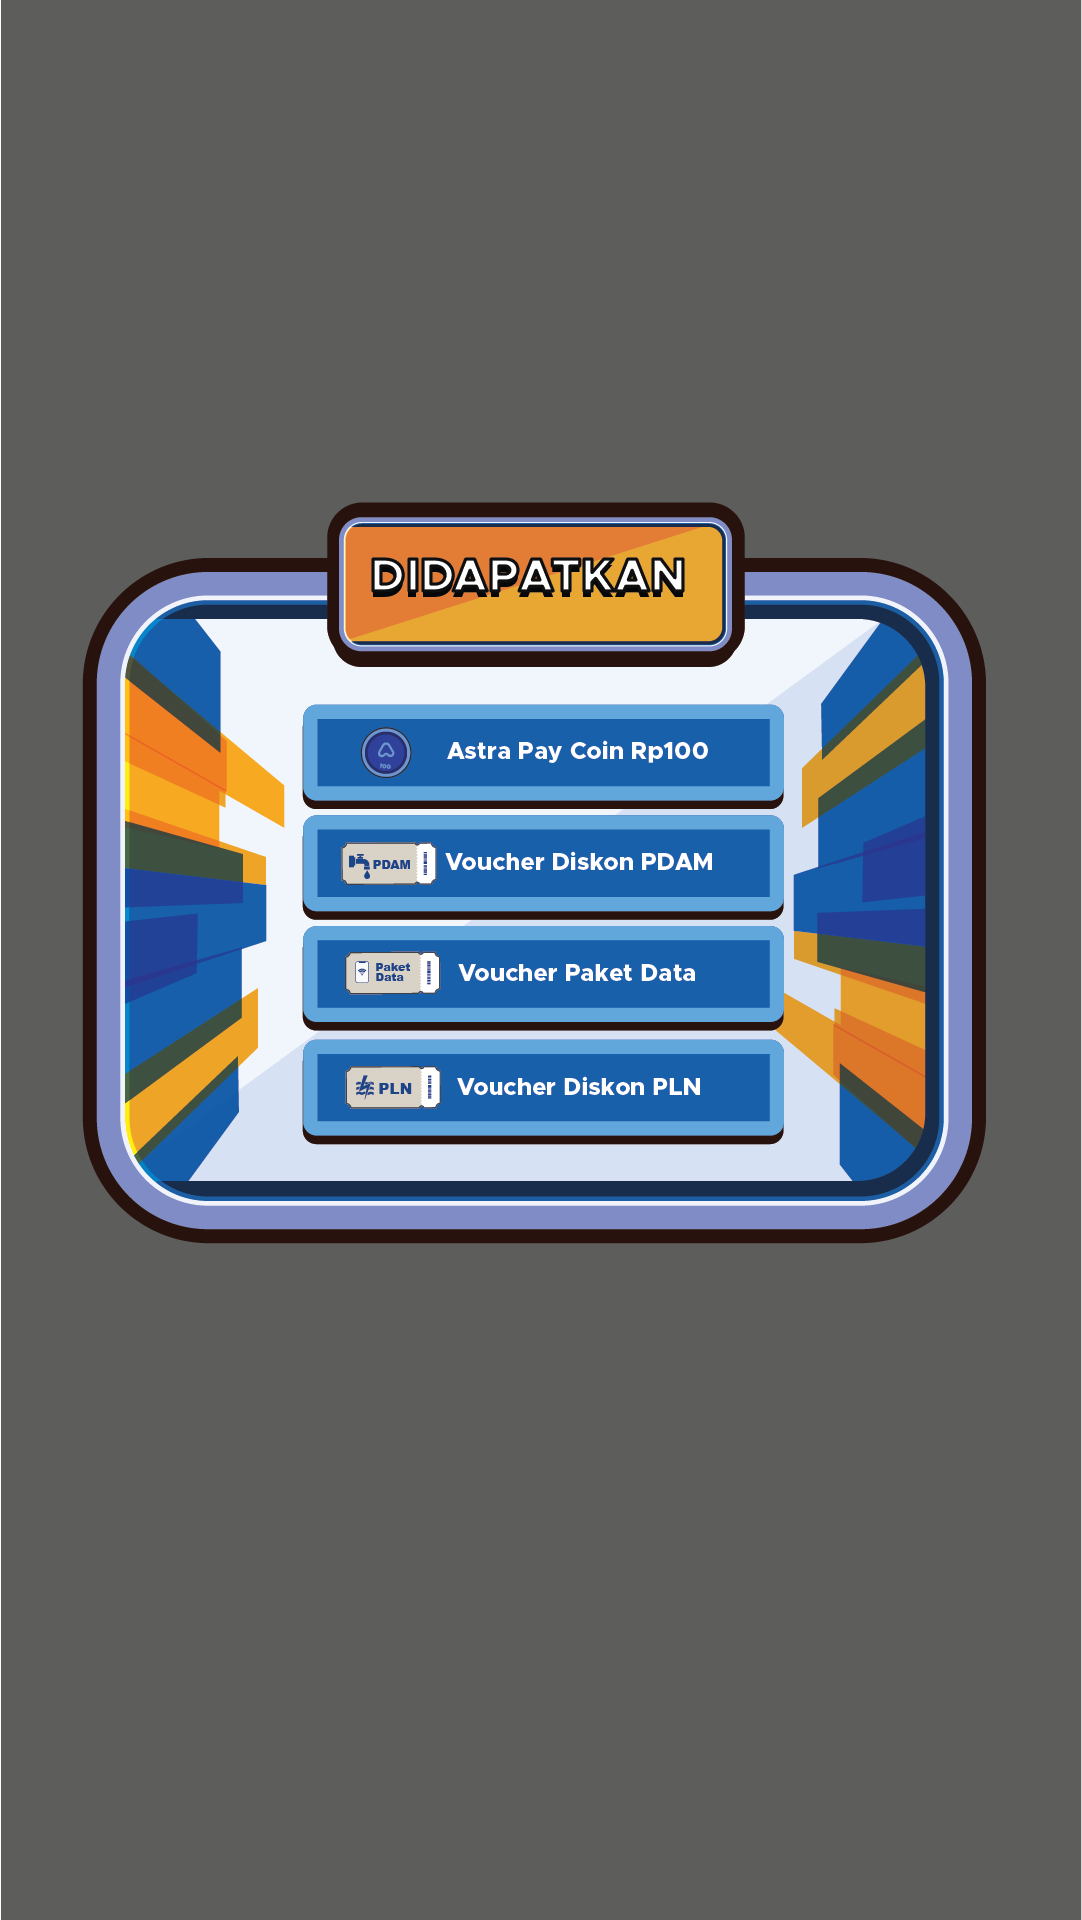
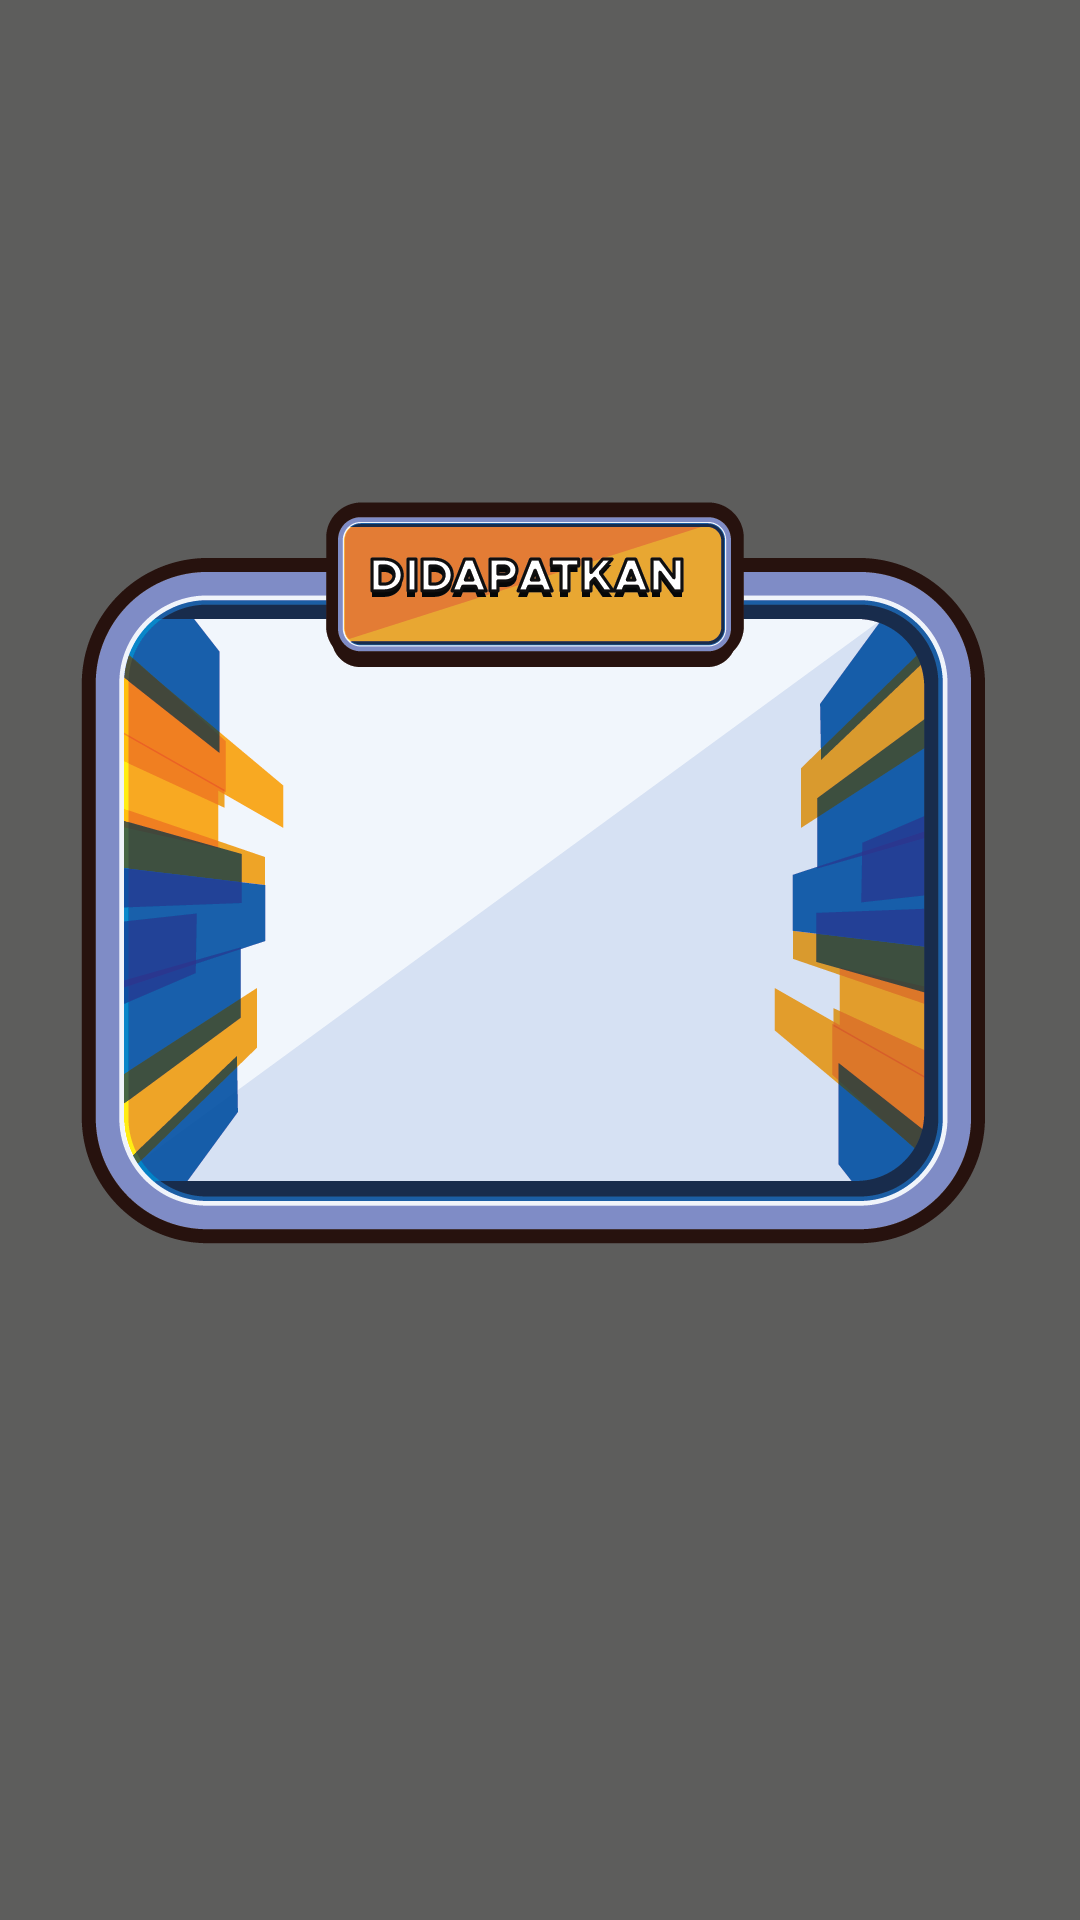
update gift

diff --git a/src/scenes/MainScene.ts b/src/scenes/MainScene.ts
@@ -33,6 +33,8 @@ export default class MainScene extends Phaser.Scene {
     key!: Array<string>
     description!: Array<string>
     heightRand: any
+    listGifts!: Array<string>
+    listGetGifts!: Phaser.GameObjects.Group
 
     backsound!: any
     congratsound!: any
@@ -55,9 +57,10 @@ export default class MainScene extends Phaser.Scene {
         this.speed = 3
         this.tween = null
         this.isGrab = false
-        this.isPlayMusic = false
+        this.isPlayMusic = true
         this.isGravity = Phaser.Math.Between(0, 1)
         this.heightRand = Phaser.Math.Between(210, 250)
+        this.listGifts = []
 
 
         this.text1 = this.add.text(26, 60, '', { color: '#000000', fontFamily: 'Metropolis', fontSize: 12 }).setDepth(50);
@@ -72,7 +75,7 @@ export default class MainScene extends Phaser.Scene {
         this.keyD = this.input.keyboard!.addKey(Phaser.Input.Keyboard.KeyCodes.DOWN)
 
         this.backsound = this.sound.add('bs', { loop: true, volume: 0.5 })
-        // this.backsound.play()
+        this.backsound.play()
         this.movelr = this.sound.add('movelr', { loop: true })
         this.moveUpDown = this.sound.add('moveupdown', { loop: true })
         this.congratsound = this.sound.add('congratsound', { loop: false })
@@ -87,6 +90,10 @@ export default class MainScene extends Phaser.Scene {
             .setScale(0.1)
             .setVisible(false)
             .setDepth(100)
+        // this.getGift = this.add.image(cam.width / 2, cam.height / 2, 'gold3')
+        //     .setScale(0.35)
+        //     .setVisible(true)
+        //     .setDepth(100)
         this.machine = this.add.image(cam.width / 2, cam.height / 2, 'machine')
             .setScale(0.35)
         this.bgMachine = this.add.image(cam.width / 2, cam.height / 2, 'bg-machine')
@@ -131,6 +138,11 @@ export default class MainScene extends Phaser.Scene {
             .setDepth(102)
             .setVisible(false)
             .setInteractive()
+        // this.buttonKembali = this.add.image(cam.width / 2, 270, 'gold3')
+        //     .setScale(0.1)
+        //     .setDepth(102)
+        //     .setVisible(false)
+        //     .setInteractive()
         this.claw = this.physics.add.image(cam.width / 2, 200, 'claw')
             .setScale(0.35)
             .setOrigin(0.5, 1)
@@ -183,9 +195,34 @@ export default class MainScene extends Phaser.Scene {
         this.setupInputListeners()
     }
 
+    listGiftsGroup(){
+        if (this.listGetGifts==null) {
+            this.listGetGifts = this.add.group({
+                key:this.listGifts[this.listGifts.length],
+                setScale:{x:0.1},
+                setDepth:{z:102},
+                visible:false
+            })
+        }
+        const lenght = this.listGifts.length
+        // const key = this.listGifts[lenght-1]
+        this.listGifts.forEach((item:string,index:number)=>{
+
+            const newList = this.listGetGifts.create(this.cameras.main.width / 2, (index*40)+260, item)
+            .setScale(0.35)
+            .setVisible(true)
+            .setDepth(110)
+        })
+        
+        // console.log(key);
+        // console.log(length);
+        
+    }
+
 
     setupInputListeners() {
         this.buttonGift.on('pointerdown', this.buttonGiftOn, this);
+        this.buttonGift.on('pointerdown', this.listGiftsGroup, this);
         this.buttonKembali.on('pointerdown', this.buttonKembaliOn, this);
         this.buttonOk.on('pointerdown', this.buttonOkOn, this);
         this.buttonMusic.on('pointerdown', this.buttonMusicOn, this);
@@ -200,9 +237,10 @@ export default class MainScene extends Phaser.Scene {
     buttonGiftOn() {
         this.getGift.setVisible(true)
         this.buttonKembali.setVisible(true)
+        // this.listGetGifts.setVisible(true)
         this.tween = this.tweens.add(
             {
-                targets: [this.getGift, this.buttonKembali],
+                targets: [this.getGift, this.buttonKembali,this.listGetGifts],
                 scaleX: 0.35,
                 scaleY: 0.35,
                 duration: 1000,
@@ -214,6 +252,8 @@ export default class MainScene extends Phaser.Scene {
     buttonKembaliOn() {
         this.buttonKembali.setVisible(false)
         this.getGift.setVisible(false)
+        this.listGetGifts.setVisible(false)
+        this.listGetGifts.scaleXY(0.1)
         this.buttonKembali.setScale(0.1)
         this.getGift.setScale(0.1)
     }
@@ -317,6 +357,7 @@ export default class MainScene extends Phaser.Scene {
                             this.fall.play()
                             this.moveUpDown.stop()
                             imageObject.body!.allowGravity = 1
+                            // giftArr[0].setY(this.claw.y)
                             giftArr[0].setY(this.claw.y + 20)
                             giftArr[0].setX(this.claw.x)
                         } else {
@@ -332,14 +373,15 @@ export default class MainScene extends Phaser.Scene {
 
                 if (imageObject.y > 100 && imageObject.y < 205) {
                     console.log(`you get ${imageObject.name}!`);
+                    this.listGifts.push(`${imageObject.name}3`)
                     this.heightRand = Phaser.Math.Between(205, 300)
                     imageObject.destroy()
                     object.destroy()
                     this.claw.setVelocityY(0)
                     this.claw.setY(200)
                     this.displayGift(imageObject.name)
-                    this.congratsGift = this.add.image(this.cameras.main.width / 2 - 5, 300, `${imageObject.name}2`)
-                        .setScale(0.1)
+                    this.congratsGift = this.add.image(this.cameras.main.width / 2 - 5, 285, `${imageObject.name}2`)
+                        .setScale(0.2)
                         .setDepth(101)
                         .setVisible(true)
 
@@ -394,9 +436,6 @@ export default class MainScene extends Phaser.Scene {
 
         }
     }
-
-
-
 
 }
 

diff --git a/src/scenes/preloadScene.ts b/src/scenes/preloadScene.ts
@@ -72,6 +72,13 @@ export default class PreloadScene extends Phaser.Scene {
         this.load.image('paket-data2', 'assets/image/paket-data-01-01.png')
         this.load.image('vo-games2', 'assets/image/vo-games-01-01.png')
         
+        this.load.image('gold3', 'assets/image/gold-01-01-01.png')
+        this.load.image('silver3', 'assets/image/silver-01-01-01.png')
+        this.load.image('bronze3', 'assets/image/bronze-01-01-01.png')
+        this.load.image('pln3', 'assets/image/pln-01-01-01.png')
+        this.load.image('pulsa3', 'assets/image/pulsa-01-01-01.png')
+        this.load.image('paket-data3', 'assets/image/paket-data-01-01-01.png')
+        this.load.image('vo-games3', 'assets/image/vo-games-01-01-01.png')
         //SOUND
         this.load.audio('bs','assets/audio/backsound.mp3')
         this.load.audio('congratsound','assets/audio/congratsound.mp3')
